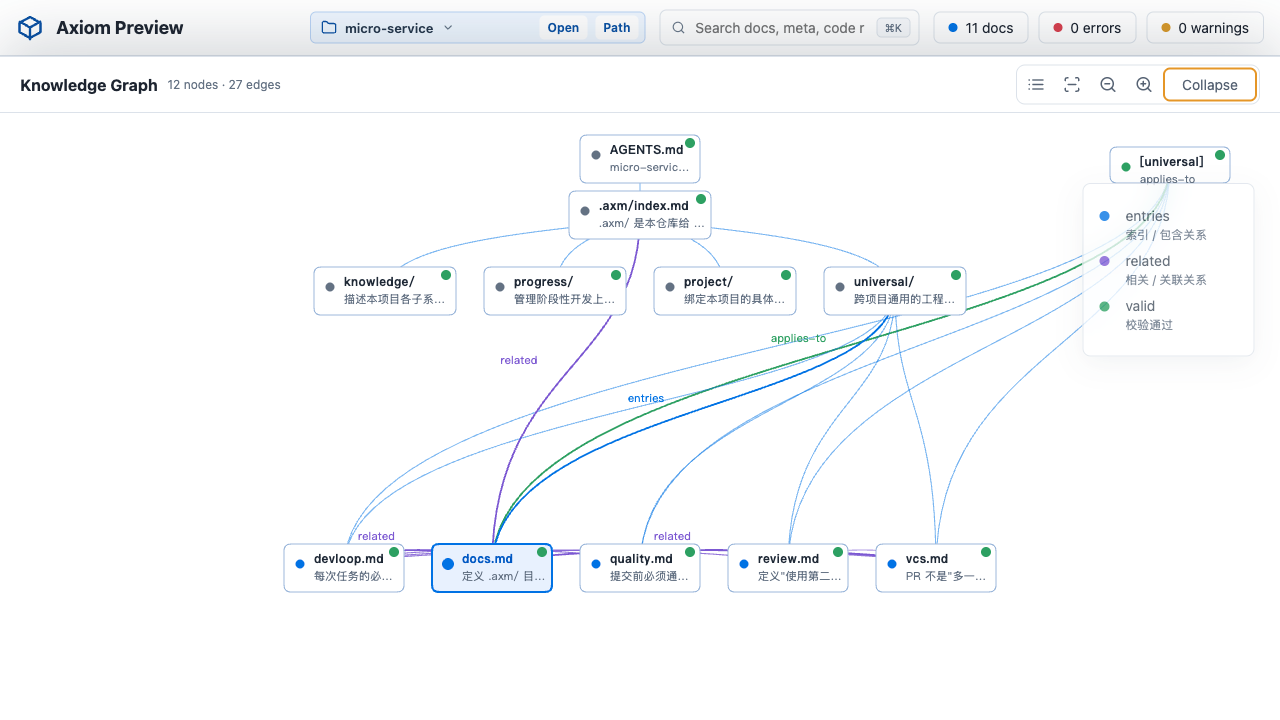
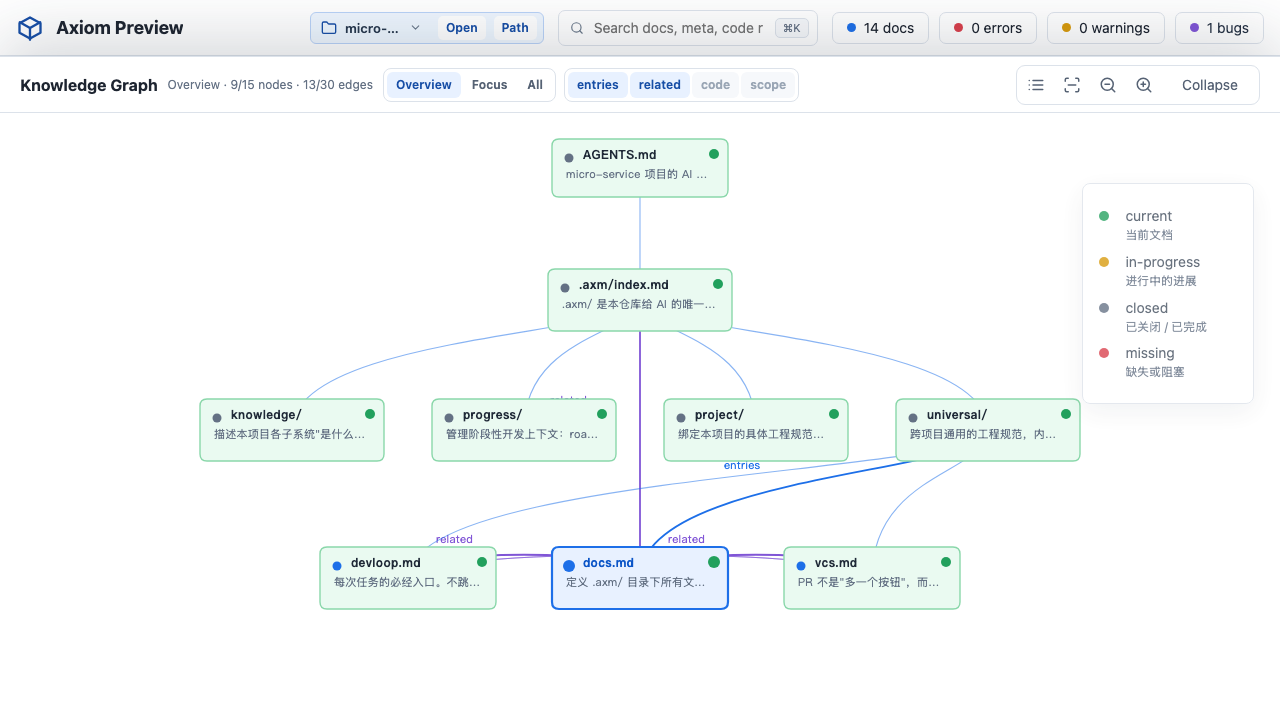
Update preview screenshots in README

diff --git a/README.md b/README.md
@@ -92,15 +92,20 @@ AI 会按 5 阶段 SOP 执行（详见 `SKILL.md`）：
 - `AGENTS.md` 与 `.axm/` 文件树
 - Markdown 正文、axm-meta（含 `doc-state` / `workflow-state`）与契约校验结果
 - 搜索结果、索引关系与 Knowledge Graph
+- 顶部 `bugs` 统计与可搜索、可过滤、可跳转的 BUG 管理弹窗
 - 最近打开项目的一键切换
 
-文档视图：
+主页：
 
 ![axiom_preview 只读预览器界面](docs/assets/axiom-preview.png)
 
-Knowledge Graph 视图：
+知识图谱：
 
 ![axiom_preview Knowledge Graph 视图](docs/assets/axiom-preview-graph.png)
+
+BUG 管理：
+
+![axiom_preview BUG 管理弹窗](docs/assets/axiom-preview-bugs.png)
 
 ## 直接调用脚本
 
